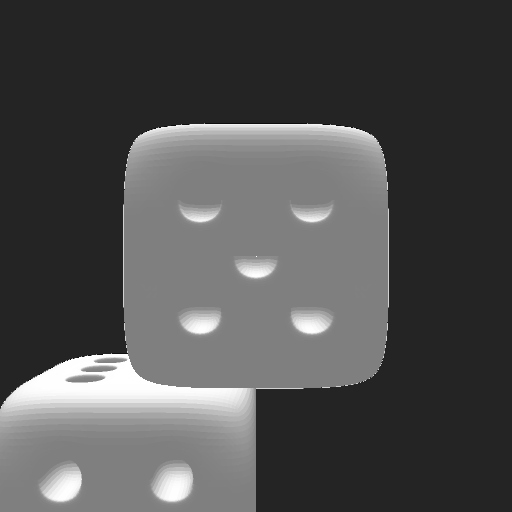
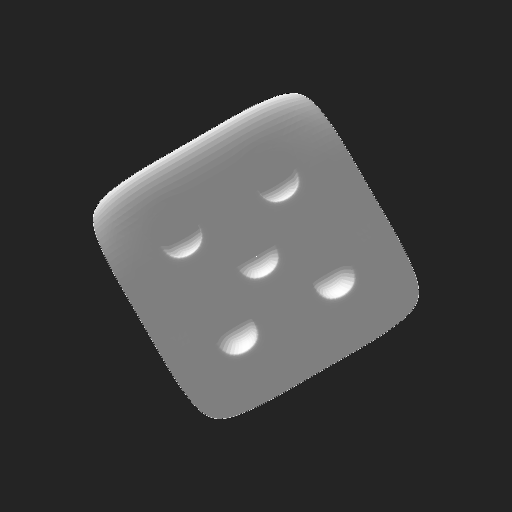
axis problem solve

diff --git a/render_Axis_problem.py b/render_Axis_problem.py
@@ -1,5 +1,6 @@
 """
-Example 1. Drawing a teapot from multiple viewpoints.
+Example 1. fixing the axis issue to be consistent with Blender transformation
+Camera is fixed
 """
 import os
 import argparse
@@ -16,13 +17,41 @@ from math import pi
 current_dir = os.path.dirname(os.path.realpath(__file__))
 data_dir = os.path.join(current_dir, 'data')
 
+def AxisBlend2Rend(tx =0 , ty=0, tz=0, alpha=0, beta=0, gamma =0):
+
+    alpha = alpha - pi/2
+    save = beta
+    beta = gamma
+    gamma = -save
+
+    Rx = np.array([[1, 0, 0],
+                   [0, m.cos(alpha), -m.sin(alpha)],
+                   [0, m.sin(alpha), m.cos(alpha)]])
+
+    Ry = np.array([[m.cos(beta), 0, m.sin(beta)],
+                   [0, 1, 0],
+                   [-m.sin(beta), 0, m.cos(beta)]])
+
+    Rz = np.array([[m.cos(gamma), -m.sin(gamma), 0],
+                   [m.sin(gamma), m.cos(gamma), 0],
+                   [0, 0, 1]])
+
+    #creaete the rotation object matrix
+
+    R = np.matmul(Rx, Ry)
+    R = np.matmul(R, Rz)
+
+    t = np.array([tx, -ty, -tz])
+
+    return t, R
 
 def main():
+    Name = 'Axis'
     parser = argparse.ArgumentParser()
-    parser.add_argument('-i', '--filename_input', type=str, default=os.path.join(data_dir, 'Axis.obj'))
-    parser.add_argument('-c', '--color_input', type=str, default=os.path.join(data_dir, 'Axis.mtl'))
-    parser.add_argument('-o', '--filename_output', type=str, default=os.path.join(data_dir, 'rubik2_SyGen_proj_2meshes4.png'))
-    parser.add_argument('-f', '--filename_output2', type=str, default=os.path.join(data_dir, 'rubik2_SyGen_proj_2meshes_silhouette.png'))
+    parser.add_argument('-i', '--filename_input', type=str, default=os.path.join(data_dir, '{}.obj'.format(Name)))
+    parser.add_argument('-c', '--color_input', type=str, default=os.path.join(data_dir, '{}.mtl'.format(Name)))
+    parser.add_argument('-o', '--filename_output', type=str, default=os.path.join(data_dir, '{}_render.png'.format(Name)))
+    parser.add_argument('-f', '--filename_output2', type=str, default=os.path.join(data_dir, '{}_silhouette.png'.format(Name)))
     parser.add_argument('-g', '--gpu', type=int, default=0)
     args = parser.parse_args()
 
@@ -46,11 +75,11 @@ def main():
 # extrinsic parameter, link world/object coordinate to camera coordinate
 # ---------------------------------------------------------------------------------
     alpha = 0
-    beta = pi/6
-    gamma = 0
+    beta = 30
+    gamma = 30
 
-    tx = 0
-    ty = 0
+    tx = 2
+    ty = 1
     tz = -5
  
     resolutionX = 512  # in pixel
@@ -65,29 +94,12 @@ def main():
     
     Cam_centerX = resolutionX/2
     Cam_centerY = resolutionY/2
-    
-    
+
     batch = vertices.shape[0]
 
-    Rx = np.array([[1,0,0],
-                  [0,m.cos(alpha),-m.sin(alpha)],
-                  [0,m.sin(alpha),m.cos(alpha)]])
+    t, R = AxisBlend2Rend(tx, ty, tz, m.radians(alpha), m.radians(beta), m.radians(gamma))
     
-    Ry  = np.array([[m.cos(beta),0,-m.sin(beta)],
-                  [0,1,0],
-                  [m.sin(beta),0,m.cos(beta)]])
-    
-    Rz = np.array([[m.cos(gamma),m.sin(gamma),0],
-                  [-m.sin(gamma),m.cos(gamma),0],
-                  [0,0,1]]) 
-  
-#   creaete the rotation object matrix
-    
-    R = np.matmul(Rx,Ry)
-    R = np.matmul(R,Rz)
-
-    
-    t_1 = np.array([tx,ty,tz]) #object position [x,y, z] 0 0 5
+    t_1 = t  # object position [x,y, z] 0 0 5
     t_2 = np.array([-1, 2, 5])
 
     R = np.repeat(R[np.newaxis, :, :], batch, axis=0) # shape of [batch=1, 3, 3]
@@ -95,38 +107,6 @@ def main():
     t_2 = np.repeat(t_2[np.newaxis, :], 1, axis=0)
 
 # ---------------------------------------------------------------------------------
-# Transform axis
-# ---------------------------------------------------------------------------------
-    batch = vertices.shape[0]
-    alpha = alpha - pi/2
-    save = beta
-    beta = gamma
-    gamma = -save
-
-    Rx = np.array([[1, 0, 0],
-                   [0, m.cos(alpha), -m.sin(alpha)],
-                   [0, m.sin(alpha), m.cos(alpha)]])
-
-    Ry = np.array([[m.cos(beta), 0, m.sin(beta)],
-                   [0, 1, 0],
-                   [-m.sin(beta), 0, m.cos(beta)]])
-
-    Rz = np.array([[m.cos(gamma), -m.sin(gamma), 0],
-                   [m.sin(gamma), m.cos(gamma), 0],
-                   [0, 0, 1]])
-
-    #   creaete the rotation object matrix
-
-    R = np.matmul(Rx, Ry)
-    R = np.matmul(R, Rz)
-
-    t_1 = np.array([tx, -ty, -tz])  # object position [x,y, z] 0 0 5
-    t_2 = np.array([-1, 2, 5])
-
-    R = np.repeat(R[np.newaxis, :, :], batch, axis=0)  # shape of [batch=1, 3, 3]
-    t_1 = np.repeat(t_1[np.newaxis, :], 1, axis=0)  # shape of [1, 3]
-    t_2 = np.repeat(t_2[np.newaxis, :], 1, axis=0)
-    # ---------------------------------------------------------------------------------
 # intrinsic parameter, link camera coordinate to image plane
 # ---------------------------------------------------------------------------------
     
@@ -141,9 +121,9 @@ def main():
     renderer = nr.Renderer(image_size=512, camera_mode='projection',dist_coeffs=None, K=K, R=R, t=t_1, near=0.1, far=1000, orig_size=512)
     renderer2 = nr.Renderer(image_size=512, camera_mode='projection', dist_coeffs=None, K=K, R=R, t=t_2, near=0.1,far=1000, orig_size=512)
 
-
-
-# render object
+# ---------------------------------------------------------------------------------
+# Render object
+# ---------------------------------------------------------------------------------
 
     nb_obj2render = 1
 
@@ -169,7 +149,10 @@ def main():
 
     writer.close()
 
-# render object silhouette
+# ---------------------------------------------------------------------------------
+# Render object silhouette
+# ---------------------------------------------------------------------------------
+
     loop = tqdm.tqdm(range(0, 1, 1))
     writer = imageio.get_writer(args.filename_output2, mode='i')
     for num, azimuth in enumerate(loop):
